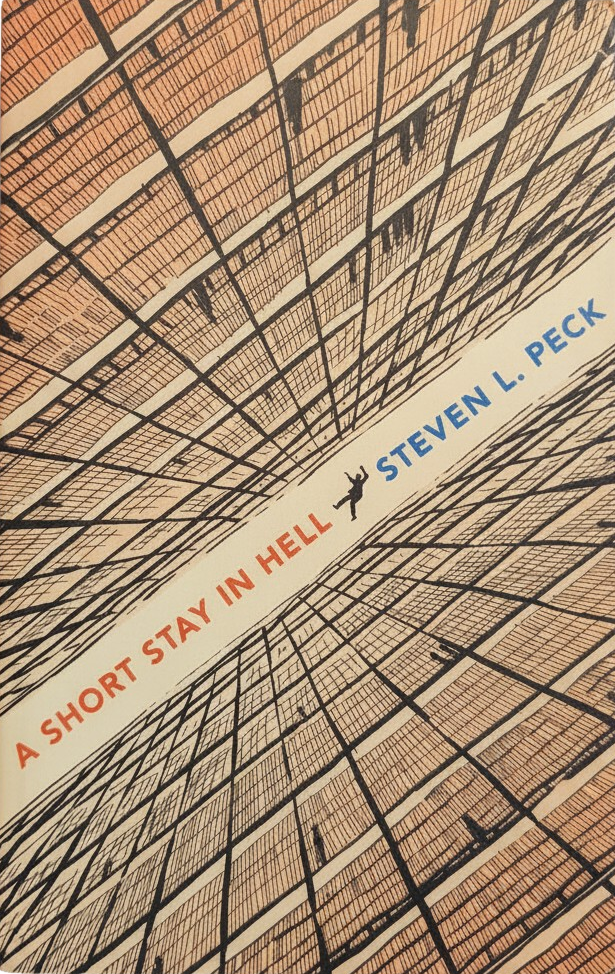
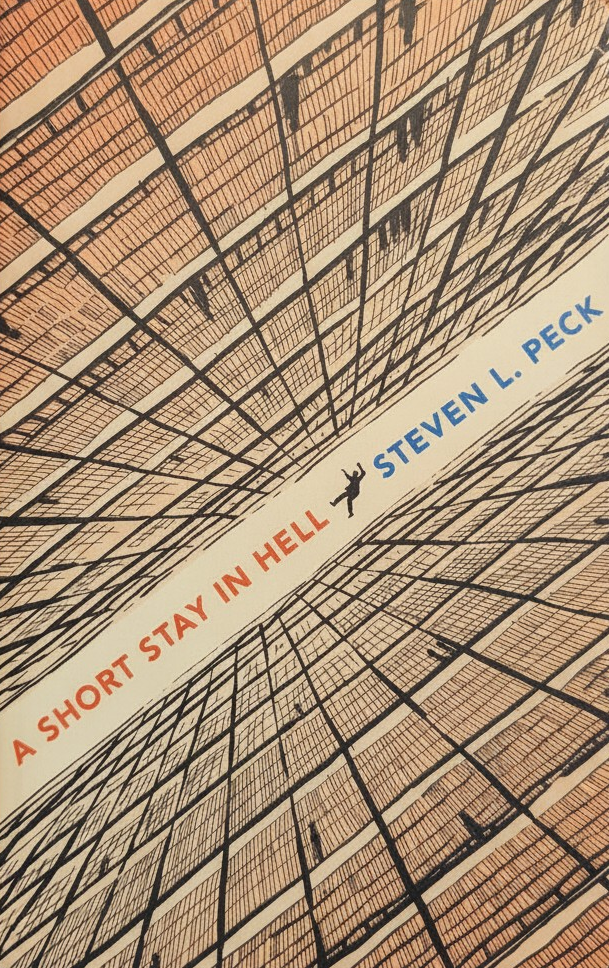
Tighter cover crops; photographed spines keep their exact proportions
Edge columns must be at least 85% book before they count, which drops the sliver of
backdrop left by a slightly tilted cover. Spines are no longer widened to a minimum; a
wider invisible target keeps thin ones clickable.

diff --git a/shelf.js b/shelf.js
@@ -88,7 +88,7 @@
         const art = coverUrl(b, 'M');
         const side = b.spine || (b.isbn ? `spines/${b.isbn}.jpg` : '');
         return `<button class="book ${face}" role="listitem" data-i="${i}" style="--h:${height}em;--w:${width}em;--c1:${pal[0]};--c2:${pal[1]};--ink:${pal[2]};--bands:${bands};${art ? `--art:url('${art}')` : ''}" title="${esc(b.title)}">
-          ${side ? `<img class="side" src="${side}" alt="" onload="this.parentElement.classList.add('has-side');this.parentElement.style.setProperty('--w','max(calc(var(--h) * ' + (this.naturalWidth / this.naturalHeight).toFixed(4) + '), 1.6em)');window.dispatchEvent(new Event('resize'))" onerror="this.remove()">` : ''}
+          ${side ? `<img class="side" src="${side}" alt="" onload="this.parentElement.classList.add('has-side');this.parentElement.style.setProperty('--w','calc(var(--h) * ' + (this.naturalWidth / this.naturalHeight).toFixed(4) + ')');window.dispatchEvent(new Event('resize'))" onerror="this.remove()">` : ''}
           <span class="t">${esc(b.title)}</span><span class="a">${esc(b.author)}</span></button>`;
         }).join('') || '<div class="shelf-empty">nothing on the shelf yet</div>';
       });

diff --git a/books.html b/books.html
@@ -14,7 +14,7 @@
 <link rel="preconnect" href="https://fonts.googleapis.com">
 <link rel="preconnect" href="https://fonts.gstatic.com" crossorigin>
 <link href="https://fonts.googleapis.com/css2?family=IBM+Plex+Mono:ital,wght@0,400;0,500;0,600;1,400&family=Permanent+Marker&family=Reenie+Beanie&family=Courier+Prime:wght@400;700&family=Archivo+Narrow:wght@700&family=Archivo:wght@600;700&family=Bebas+Neue&family=Playfair+Display:wght@700&family=Caveat:wght@700&family=Libre+Caslon+Text:ital,wght@0,400;0,700;1,400&display=swap" rel="stylesheet">
-<link rel="stylesheet" href="shelf.css?v=4">
+<link rel="stylesheet" href="shelf.css?v=5">
 <style>
 :root {
   --bg: #c9955c;
@@ -99,7 +99,7 @@ body {
     <div class="opened" id="opened" hidden></div>
   </section>
 </main>
-<script src="shelf.js?v=4"></script>
+<script src="shelf.js?v=5"></script>
 <script>
 fetch('books.json', { cache: 'no-store' }).then(r => r.ok ? r.json() : Promise.reject()).then(d => {
   renderBookshelf(document.querySelector('.books'), d, { perPlank: 14 });

diff --git a/index.html b/index.html
@@ -27,7 +27,7 @@
 <link rel="preconnect" href="https://fonts.googleapis.com">
 <link rel="preconnect" href="https://fonts.gstatic.com" crossorigin>
 <link href="https://fonts.googleapis.com/css2?family=IBM+Plex+Mono:ital,wght@0,400;0,500;0,600;1,400&family=Permanent+Marker&family=Reenie+Beanie&family=Courier+Prime:wght@400;700&family=Archivo+Narrow:wght@700&family=Archivo:wght@600;700&family=Bebas+Neue&family=Playfair+Display:wght@700&family=Caveat:wght@700&family=Libre+Caslon+Text:ital,wght@0,400;0,700;1,400&display=swap" rel="stylesheet">
-<link rel="stylesheet" href="shelf.css?v=4">
+<link rel="stylesheet" href="shelf.css?v=5">
 <style>
 :root {
   --bg: #c9955c;
@@ -970,7 +970,7 @@ body {
 })();
 </script>
 
-<script src="shelf.js?v=4"></script>
+<script src="shelf.js?v=5"></script>
 <script>
 (() => {
   const telly = document.getElementById('telly');

diff --git a/shelf.css b/shelf.css
@@ -63,7 +63,8 @@
 .book .a { font: 400 .5em/1 'Courier Prime', monospace; letter-spacing: .1em; text-transform: uppercase; opacity: .8; white-space: nowrap; overflow: hidden; }
 /* a photographed spine replaces the generated one entirely */
 .book .side { position: absolute; inset: 0; width: 100%; height: 100%; object-fit: fill; display: none; }
-.book.has-side { background: none; text-shadow: none; }
+.book.has-side { background: none; text-shadow: none; box-shadow: 0 .3em .4em -.2em rgba(0,0,0,.6); }
+.book.has-side::after { content: ""; position: absolute; top: 0; bottom: 0; left: -.45em; right: -.45em; }   /* a wider target for very thin spines */
 .book.has-side .side { display: block; }
 .book.has-side .t, .book.has-side .a { visibility: hidden; }
 .book.serif .t { font-family: 'Playfair Display', serif; }

diff --git a/gemini-cutouts.py b/gemini-cutouts.py
@@ -43,7 +43,7 @@ def generate(path, kind):
             if attempt == 2: raise
             time.sleep(4 * (attempt + 1))
 
-def trim_rect(im, frac=0.5):
+def trim_rect(im, frac=0.85):
     """Crop to the book's rectangle: rows and columns where most pixels are clearly not the
     white backdrop or its soft shadow. A straight crop leaves any shadow outside."""
     rgb = im.convert('RGB'); W, H = rgb.size; px = rgb.load()
@@ -53,7 +53,7 @@ def trim_rect(im, frac=0.5):
     cols = [sum(1 for y in range(0, H, 2) if strong(x, y)) for x in range(W)]
     rows = [sum(1 for x in range(0, W, 2) if strong(x, y)) for y in range(H)]
     cx = [x for x, c in enumerate(cols) if c >= max(cols) * frac]; ry = [y for y, c in enumerate(rows) if c >= max(rows) * frac]
-    return rgb.crop((min(cx) + 2, min(ry) + 2, max(cx) - 1, max(ry) - 1)).convert('RGBA')
+    return rgb.crop((min(cx) + 3, min(ry) + 3, max(cx) - 2, max(ry) - 2)).convert('RGBA')
 
 def run(item):
     name, meta = item; kind, slug = meta['kind'], meta['slug']
